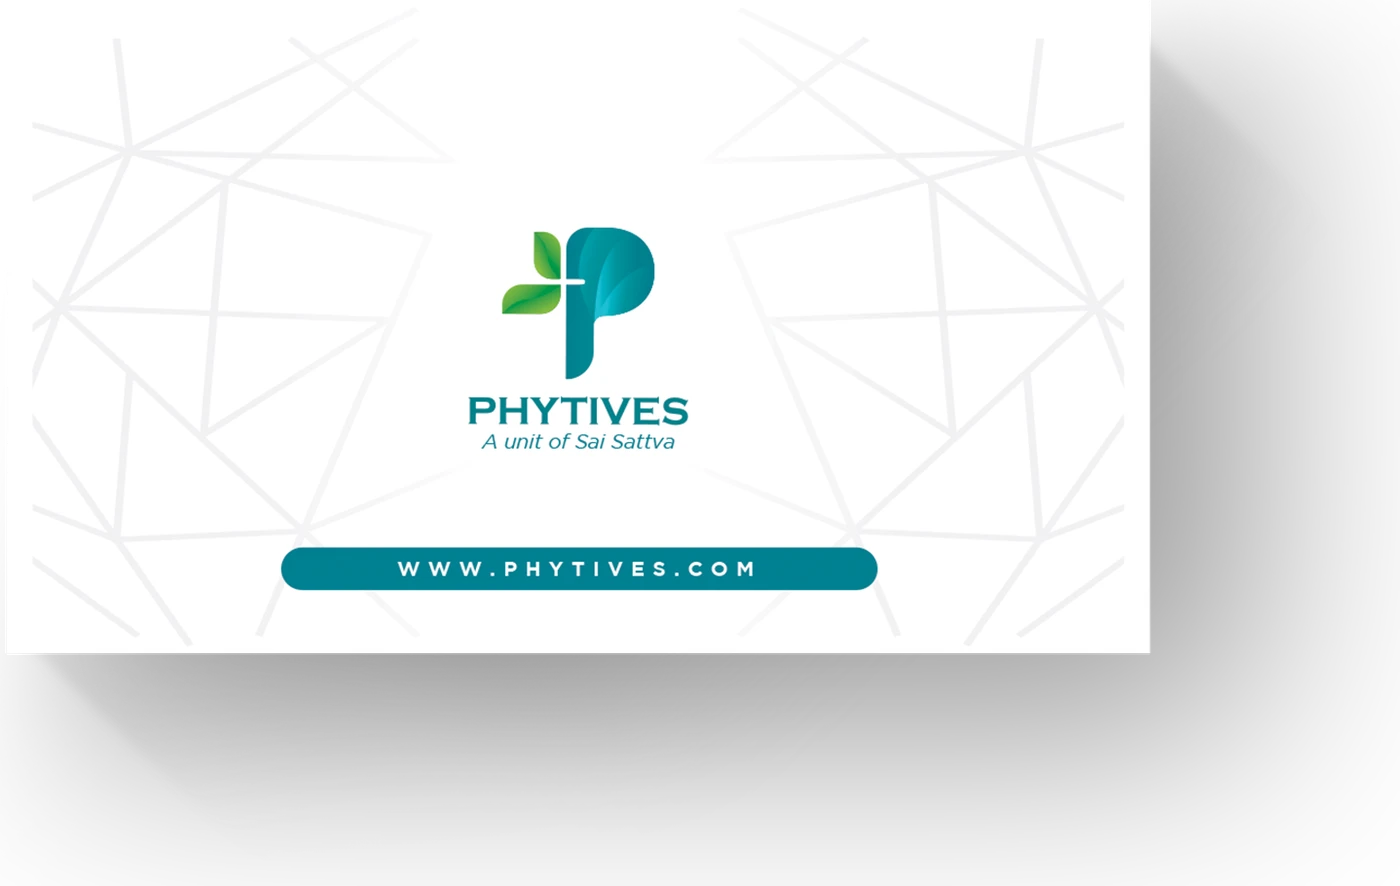
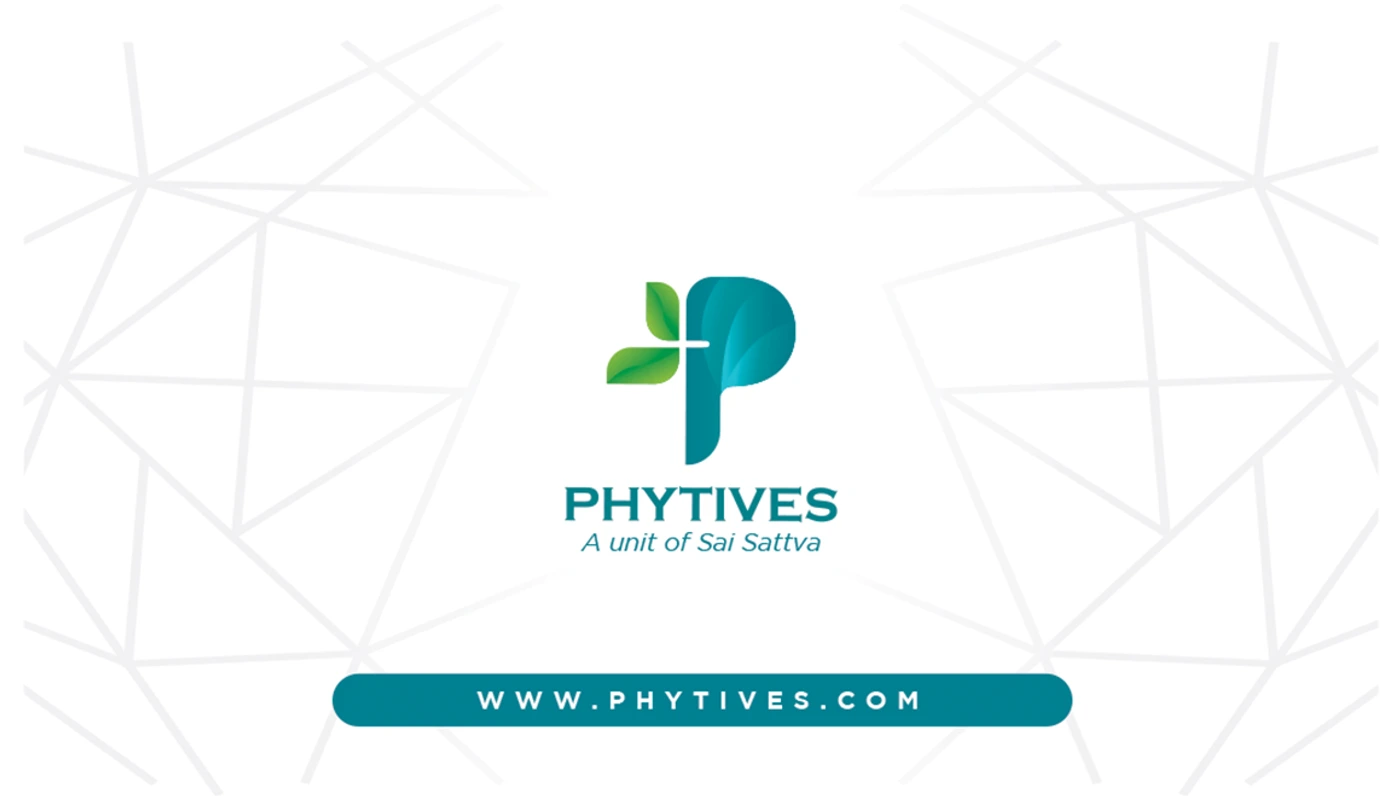
Replace Phytives business card renders with flat versions
The user swapped in new source files for card1.png/card 2.png — flat,
edge-to-edge exports with no baked-in shadow or perspective, unlike
the original mockup crops. Adds a CSS border-radius + box-shadow so
they still read as presented cards rather than plain rectangles.

Changed region(s): [[0.0307, 0.0302, 0.9521, 0.9347], [0.1843, 0.2412, 0.645, 0.6935]]

diff --git a/src/phytives-case-study.css b/src/phytives-case-study.css
@@ -300,6 +300,8 @@
 .phy-cards img {
   width: 100%;
   height: auto;
+  border-radius: calc(20 * var(--u));
+  box-shadow: 0 calc(16 * var(--u)) calc(40 * var(--u)) rgba(28, 23, 18, 0.14);
 }
 
 .phy-letterhead {
